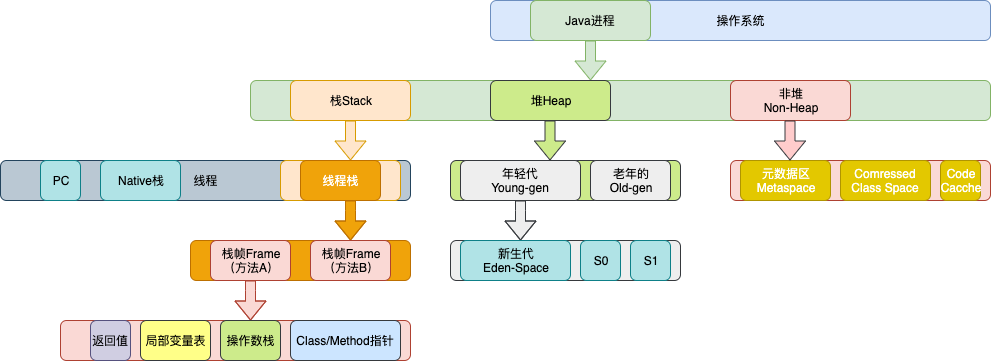
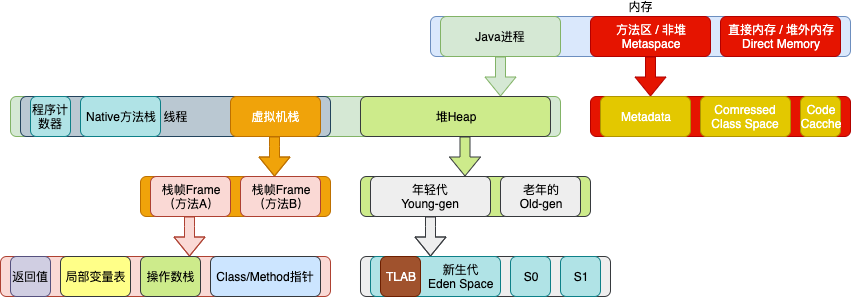
调整jvm内存模型

diff --git a/SUMMARY.md b/SUMMARY.md
@@ -17,7 +17,6 @@
             * [SpringBoot核心功能](src/language/java/spring/SpringBoot核心功能.md)
         * Dubbo
             * [Dubbo源码分析](src/language/java/dubbo/Dubbo源码分析.md)
-    * scala
 * Bigdata
     * Hadoop
         * HDFS
